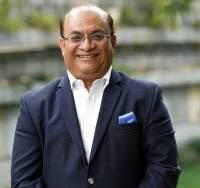
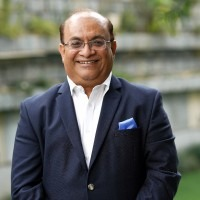
fix(authors): embed user-provided portraits as built-in default stock author images across all devices

diff --git a/sahayakbooksproduction-main/src/context/StoreContext.tsx b/sahayakbooksproduction-main/src/context/StoreContext.tsx
@@ -284,6 +284,21 @@ const STOCK_DEFAULT_URLS = new Set([
   'https://pub-d7c01d3edc7e4dbab0acb59d64c988a8.r2.dev/sahayak/authors/default-author.png'
 ]);
 
+export function getAuthorStockAvatar(authorOrIdOrSlug?: any): string {
+  if (!authorOrIdOrSlug) return '';
+  const str = typeof authorOrIdOrSlug === 'string'
+    ? authorOrIdOrSlug.toLowerCase()
+    : ((authorOrIdOrSlug.id || '') + ' ' + (authorOrIdOrSlug.slug || '') + ' ' + (authorOrIdOrSlug.name || '')).toLowerCase();
+  
+  if (str.includes('sandeep')) {
+    return 'https://pub-1282ea95dd4a49ebb0c9ac2fbe6d88b9.r2.dev/branding/author_sandeep_sahni_permanent.jpg';
+  }
+  if (str.includes('sanjit') || str.includes('paul')) {
+    return 'https://pub-1282ea95dd4a49ebb0c9ac2fbe6d88b9.r2.dev/branding/author_sanjit_singh_paul_permanent.jpg';
+  }
+  return '';
+}
+
 function isCustomImageUrl(url: any): boolean {
   if (!url || typeof url !== 'string') return false;
   const trimmed = url.trim();
@@ -361,14 +376,14 @@ export const StoreProvider: React.FC<{ children: React.ReactNode }> = ({ childre
         const parsed = JSON.parse(saved);
         if (Array.isArray(parsed) && parsed.length > 0) {
           return parsed.map((a: Author) => {
-            const initAuth = INITIAL_AUTHORS.find((ia) => ia.id === a.id || ia.slug === a.slug);
+            const stockAvatar = getAuthorStockAvatar(a);
             let avatar = a.avatar;
-            if (!avatar || avatar.includes('images.unsplash.com') || avatar.includes('default-author.png')) {
-              avatar = initAuth?.avatar || '';
+            if (!avatar || avatar.includes('images.unsplash.com') || avatar.includes('default-author.png') || avatar.startsWith('/sandeep_sahni')) {
+              avatar = stockAvatar;
             }
             return {
               ...a,
-              avatar,
+              avatar: avatar || stockAvatar,
               coverImage: a.coverImage && a.coverImage.includes('images.unsplash.com') ? '' : a.coverImage,
             };
           });
@@ -898,28 +913,28 @@ export const StoreProvider: React.FC<{ children: React.ReactNode }> = ({ childre
               } else if (la) {
                 authorToUse = { ...sa, ...la };
               }
-              const initAuth = INITIAL_AUTHORS.find((ia) => ia.id === authorToUse.id || ia.slug === authorToUse.slug);
+              const stockAvatar = getAuthorStockAvatar(authorToUse);
               let avatar = authorToUse.avatar;
-              if (!avatar || avatar.includes('images.unsplash.com') || avatar.includes('default-author.png')) {
-                avatar = initAuth?.avatar || '';
+              if (!avatar || avatar.includes('images.unsplash.com') || avatar.includes('default-author.png') || avatar.startsWith('/sandeep_sahni')) {
+                avatar = stockAvatar;
               }
               return {
                 ...authorToUse,
-                avatar,
+                avatar: avatar || stockAvatar,
                 coverImage: authorToUse.coverImage && authorToUse.coverImage.includes('images.unsplash.com') ? '' : authorToUse.coverImage,
               };
             });
             const localOnlyAuthors = localAuthors
               .filter((la) => !serverAuthorIds.has(la.id) && !data[1].authors.some((sa: Author) => sa.slug === la.slug))
               .map(la => {
-                const initAuth = INITIAL_AUTHORS.find((ia) => ia.id === la.id || ia.slug === la.slug);
+                const stockAvatar = getAuthorStockAvatar(la);
                 let avatar = la.avatar;
-                if (!avatar || avatar.includes('images.unsplash.com') || avatar.includes('default-author.png')) {
-                  avatar = initAuth?.avatar || '';
+                if (!avatar || avatar.includes('images.unsplash.com') || avatar.includes('default-author.png') || avatar.startsWith('/sandeep_sahni')) {
+                  avatar = stockAvatar;
                 }
                 return {
                   ...la,
-                  avatar,
+                  avatar: avatar || stockAvatar,
                   coverImage: la.coverImage && la.coverImage.includes('images.unsplash.com') ? '' : la.coverImage,
                 };
               });
